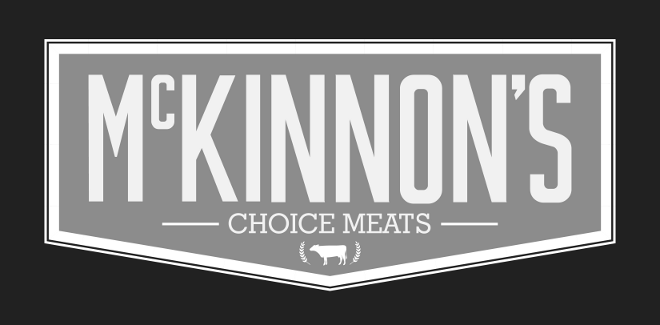
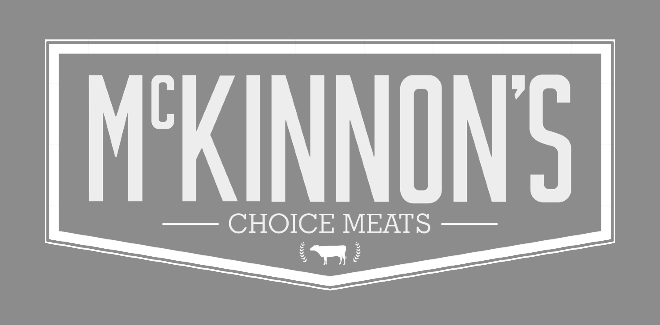
but nothing clicks

diff --git a/index.html b/index.html
@@ -6,9 +6,6 @@
 <meta http-equiv="Content-Type" content="text/html; charset=utf-8" />
 <meta name="viewport" content="width=device-width user-scalable=no">
 
-<!--script src="//ajax.googleapis.com/ajax/libs/jquery/2.1.3/jquery.min.js"></script
-<script type="text/javascript" src="scripts/jquery.min.js"></script>-->
-
 <link href="font/brandon/stylesheet.css" rel="stylesheet" type="text/css" />  
 <link href="image/tc.ico" rel="shortcut icon" >
 <link href="css/main.css" rel="stylesheet" type="text/css" media="screen" />
@@ -17,24 +14,23 @@
 </head>
 
 <body>
-    <div id="header" class="expanded"><div id="scroll"></div><span id="tyler">tyler</span><span id="chen">chen</span></div>
+    <div id="header"><div id="scroll"></div><span id="tyler">tyler</span><span id="chen">chen</span></div>
 <div id="contentContainer">
 <div class="groupContainer">
     <div class="item tall">
         <div class="item small text">I do drawing things from time to time.</div>
-        <div id="self" class="item small image"></div>
+        <div class="item small image"><div id="self"></div></div>
     </div>
-    <div id="bird" class="item large text">    
-    </div>
+    <div class="item large image"><div id="bird"></div></div>
 </div>
     
 <div class="wideGroup text">I'm Tyler Chen and this is a collection of some of my work. I'm studying Math, Physics and Studio art at Tufts University. I work in a range of media but I'm most interested in digital art.</div>
     
 <div class="groupContainer">
-    <div id="name" class="item wide image"></div>
-    <div class="item small image"></div>
-    <div class="item small image"></div>
-    <div class="item wide text">All of my web design is done by hand. To me, understanding how each line of code contributes to the work as a whole is important. </div>
+    <div class="item wide image"><div id="name"></div></div>
+    <div class="item small image"><div id="posters"></div></div>
+    <div class="item small text">All of my web design is done by hand because I think it's important to understand how each line of code contributes to the work as a whole. </div>
+    <div class="item wide image"><div id="mck"></div></div>
 </div>
 <div style="height: 20px;"></div>
 </div>

diff --git a/css/projects.css b/css/projects.css
@@ -1,26 +1,57 @@
 #bird{
-    background-image: url(../projects/drawing/birdIcon_dim.png);
+    background-image: url(../projects/drawing/birdIcon.png);
     background-size: cover;
+    background-repeat: no-repeat;
+    -webkit-filter: grayscale(100%) contrast(80%) brightness(200%) ;
+    transition: 1.2s;
 }
 
-#bird:hover{
-    background-image: url(../projects/drawing/birdIcon.png);
+#bird:hover, #bird.focus{
+    -webkit-filter: grayscale(0%);
+    background-color: white;
 }
 
 #self{
-    background-image: url(../projects/drawing/selfIcon_dim.png);
-    background-size: cover;
-}
-
-#self:hover{
     background-image: url(../projects/drawing/selfIcon.png);
+    background-size: cover;
+    background-repeat: no-repeat;
+    -webkit-filter: grayscale(100%) contrast(50%) brightness(80%);
+    transition: 1.2s;}
+
+#self:hover, #self.focus{
+    -webkit-filter: grayscale(0%);
 }
 
 #name{
-    background-image: url(../projects/drawing/nameIcon_dim.png);
+    background-image: url(../projects/drawing/nameIcon.png);
     background-size: cover;
+    background-repeat: no-repeat;
+    -webkit-filter: grayscale(100%) contrast(30%) brightness(130%);
+    transition: 1.2s;}
+
+#name:hover, #name.focus{
+    -webkit-filter: grayscale(0%);
 }
 
-#name:hover{
-    background-image: url(../projects/drawing/nameIcon.png);
+#posters{
+    background-image: url(../projects/posters/icon.png);
+    background-size: cover;
+    background-repeat: no-repeat;
+    -webkit-filter: grayscale(100%) contrast(50%) brightness(150%);
+    transition: 1.2s;}
+
+#posters:hover, #posters.focus{
+    -webkit-filter: grayscale(0%);
+}
+
+#mck{
+    background-image: url(../projects/mckinnons/ikon.png);
+    background-size: cover;
+    background-position: center;
+    background-repeat: no-repeat;
+    -webkit-filter: grayscale(100%) contrast(50%);
+    transition: 1.2s;}
+
+#mck:hover, #mck.focus{
+    -webkit-filter: grayscale(0%);
 }

diff --git a/scripts/background.js b/scripts/background.js
@@ -1,8 +1,7 @@
+document.getElementById('header').classList.add( 'expanded' );
 var scroll = document.getElementById( 'scroll' );
 var words = "create build destroy live make love craft <b>ART</b>".split(" ");
 
-function write(w){
-}
 
 var i=1
 
@@ -19,5 +18,18 @@ function wordLoop(){
             scroll.innerText = "";
             document.getElementById( 'header' ).classList.remove( 'expanded');
         }
-    }, 210)
+    }, 00)
+}
+
+var timeout = setInterval(focuser, 6000);
+document.onmousemove = function(){
+  clearInterval(timeout);
+  timeout = setInterval(focuser, 6000);
+}
+
+var images = document.getElementsByClassName( 'image' );
+function focuser(){
+    var n = Math.floor(Math.random() * images.length);
+    images[n].firstChild.classList.add( 'focus' );
+    setTimeout(function(){images[n].firstChild.classList.remove( 'focus' );}, 2000)
 }

diff --git a/css/main.css b/css/main.css
@@ -22,7 +22,8 @@ html, body{
     text-align: center;
     z-index: 1;
     display: table;
-    transition: 1s;
+    transition: .7s;
+    transition-delay: 1s;
 }
 #scroll{
     font-size: 140%;
@@ -32,7 +33,7 @@ html, body{
 .expanded{
     height: 100% !important;   
     line-height: 100vh !important;
-
+    font-size: 250% !important;
 }
 .expanded > #tyler, .expanded > #chen{
     display: none;   
@@ -93,6 +94,11 @@ html, body, h1, p, ul{
 
 .image{
     background: #848484;
+}
+
+.image > div{
+    width: 100%;
+    height: 100%;
 }
 
 .image:hover{
